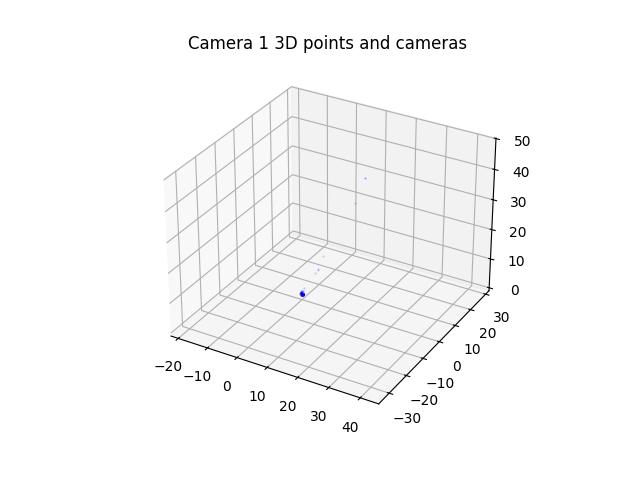
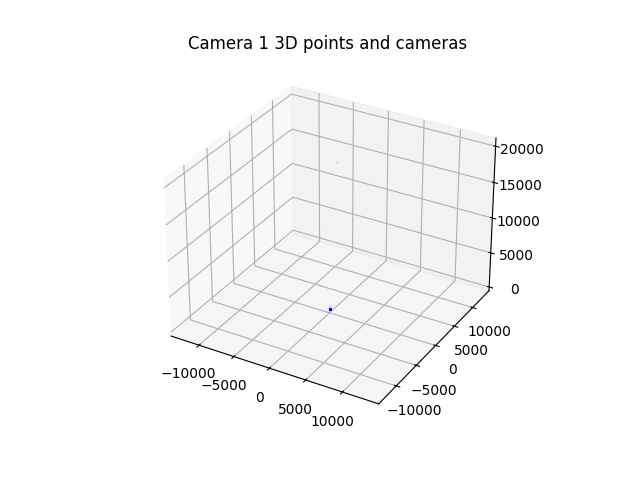
feat: submit assignment 4

diff --git a/assignment4/compEx2.py b/assignment4/compEx2.py
@@ -59,7 +59,7 @@ if __name__ == "__main__":
     # Finding the essential matrix
     inlier_threshold_px = 2
     eps = inlier_threshold_px * 2 / ( K[0,0] + K[1 ,1])
-    E, _ = estimate_E_robust(x1_normalized, x2_normalized, eps, iterations=1000)
+    E, _ = estimate_E_robust(x1_normalized, x2_normalized, eps, iterations=10000)
 
     P1 = np.hstack((np.eye(3), np.zeros((3,1))))
     P2s = extract_P_from_E(E)
@@ -81,14 +81,26 @@ if __name__ == "__main__":
 
         print(f"Camera {camera_counter} has {positive_depth_count/N*100:.2f}% points in front of both cameras")
         Xj = np.array(Xj)
+
+        # Compute distances from the origin
+        distances = np.linalg.norm(Xj, axis=1)
+
+        # Find the 90th percentile distance
+        threshold = np.percentile(distances, 90)
+
+        # Filter out points beyond the threshold
+        Xj_filtered = Xj[distances <= threshold]
+
+        # Plot the filtered points
         fig = plt.figure()
         ax = fig.add_subplot(111, projection='3d')
-        ax.plot(Xj[:, 0], Xj[:, 1], Xj[:, 2], 'bo', alpha=0.2, markersize=0.5)
+        ax.plot(Xj_filtered[:, 0], Xj_filtered[:, 1], Xj_filtered[:, 2], 'bo', alpha=0.2, markersize=0.5)
         plotcams([P1, P2], ax=ax, scale=0.1)
         plt.axis('equal')
-        plt.title(f"Camera {camera_counter} 3D points and cameras")
-        plt.savefig(f"plots/compEx2_plot{2+camera_counter}.png")
+        plt.title(f"Camera {camera_counter} 3D points (filtered) and cameras")
+        plt.savefig(f"plots/compEx2_plot{2+camera_counter}_filtered.png")
         plt.show()
         plt.close()
 
         camera_counter += 1
+

diff --git a/assignment4/estimate_F_DLT.py b/assignment4/estimate_F_DLT.py
@@ -26,7 +26,6 @@ def estimate_F_DLT(x1s, x2s):
     
     # Perform SVD on M
     _, S, Vt = np.linalg.svd(M)
-    print('Smallest singular value: ', S[-1])
     F = Vt[-1].reshape(3, 3)  # Extract the last row of Vt and reshape to 3x3
     
     # Enforce rank-2 constraint on F by setting the smallest singular value to zero

diff --git a/assignment4/compEx4.py b/assignment4/compEx4.py
@@ -57,7 +57,7 @@ if __name__ == "__main__":
 
             plt.grid(True)
             plt.tight_layout()
-            plt.savefig(f"plots/compEx3_3D_comparison_X{X_idx}_x{x_idx}.png")
+            plt.savefig(f"plots/compEx4_3D_comparison_X{X_idx}_x{x_idx}.png")
             plt.show()
 
     # Print results table
